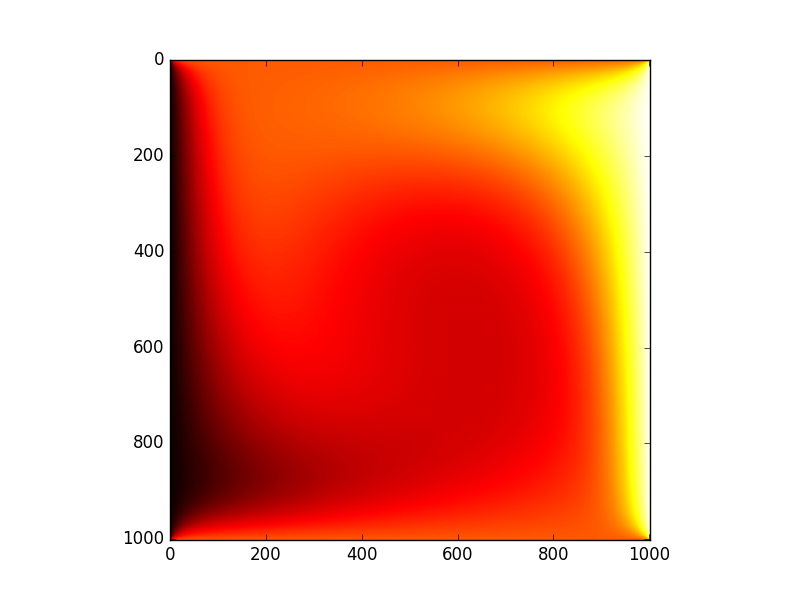
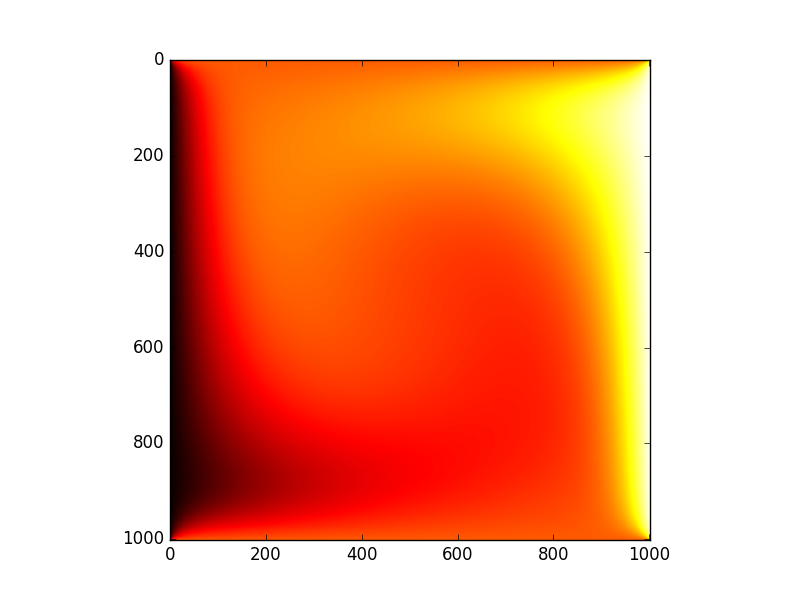
* Updated main image to a higher iteration one.

Changed region(s): [[0.25, 0.15, 0.7812, 0.84]]

diff --git a/live_heatmap.py b/live_heatmap.py
@@ -27,7 +27,6 @@ text = file.read()
 matrix = parseText(text)
 
 img = plt.imshow(matrix, cmap='hot', interpolation='nearest', animated=True)
-# plt.imshow(matrix, cmap='hot', interpolation='nearest')
 
 ani = animation.FuncAnimation(fig, updatefig, interval=100, blit=True)
 plt.show()

diff --git a/heatmap.py b/heatmap.py
@@ -11,5 +11,5 @@ for i in range(len(matrix)):
 	for j in range(len(matrix[i])):
 		matrix[i][j] = float(matrix[i][j])
 
-plt.imshow(matrix, cmap='hot', origin='lower', interpolation='nearest')
+plt.imshow(matrix, cmap='hot', interpolation='nearest')
 plt.show()

diff --git a/Códigos finais/CodigosBasicos/gaussSeidel_SRS.c b/Códigos finais/CodigosBasicos/gaussSeidel_SRS.c
@@ -177,6 +177,8 @@ int main(int argc, char** argv){
 				}
 			}
 		}
+		//Essas três linhas são necessárias para a visualização ao vivo.
+		//Para calcular o speed up comente-nas.
 		printMat();
 		fflush(arquivo);
 		rewind(arquivo);

diff --git a/Códigos finais/CodigosBasicos/gaussSeidel_SRSL.c b/Códigos finais/CodigosBasicos/gaussSeidel_SRSL.c
@@ -175,6 +175,8 @@ int main(int argc, char** argv){
 				}
 			}
 		}
+		//Essas três linhas são necessárias para a visualização ao vivo.
+		//Para calcular o speed up comente-nas.
 		printMat();
 		fflush(arquivo);
 		rewind(arquivo);
